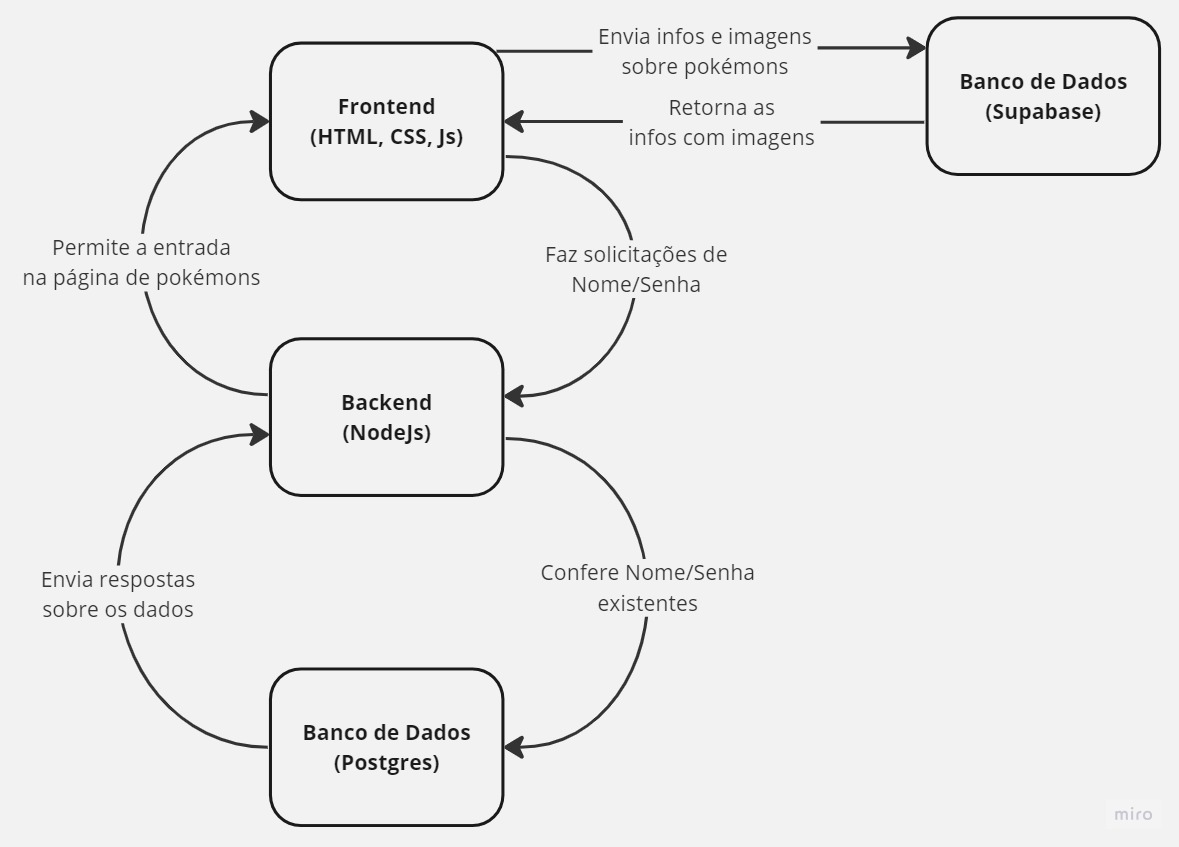
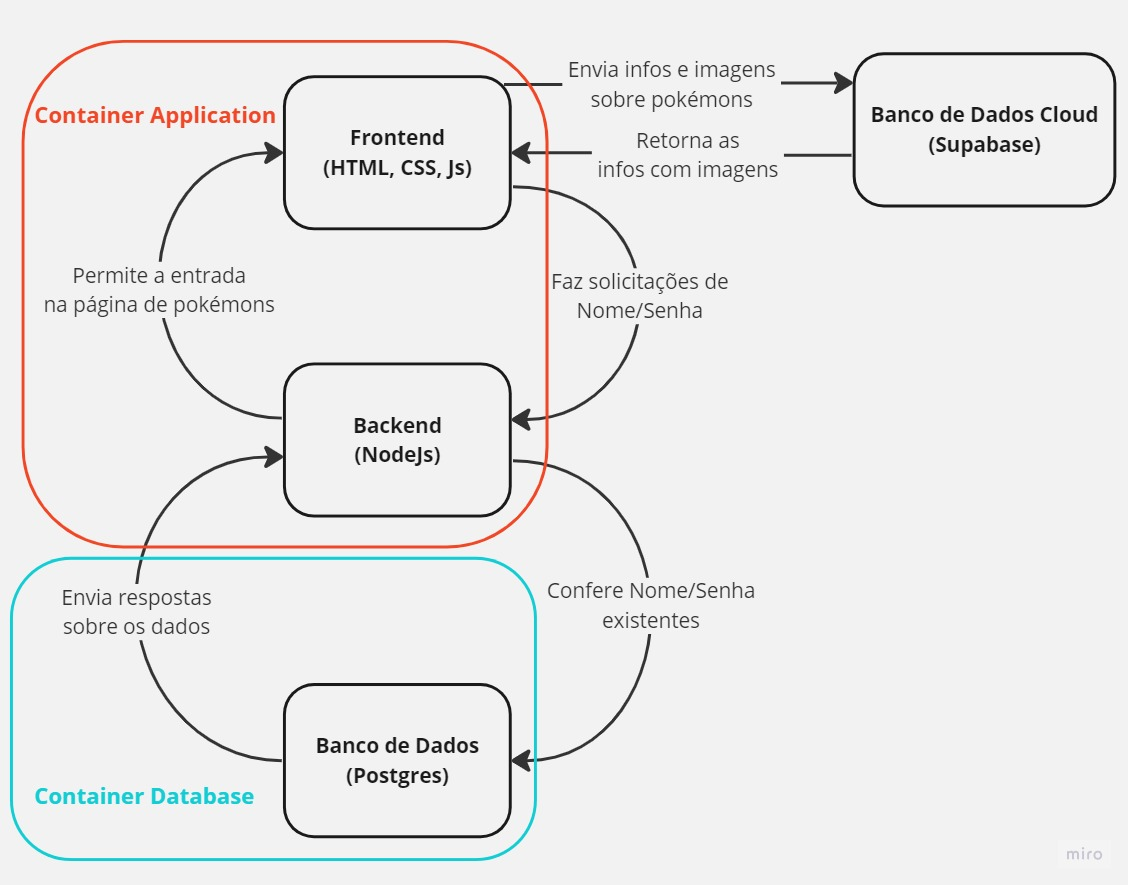
FUNCIONANDO e README

Changed region(s): [[0.0, 0.0, 0.9929, 0.9823], [0.031, 0.0614, 0.0621, 0.0921]]

diff --git a/pond2/containers/application/db.js b/pond2/containers/application/db.js
@@ -2,7 +2,7 @@ const { Pool } = require('pg');
 
 const pool = new Pool({
     user: 'postgres',
-    host: 'localhost',
+    host: 'db',
     database: 'postgres',
     password: 'postgres',
     port: 5432,

diff --git a/pond2/containers/application/index.js b/pond2/containers/application/index.js
@@ -5,7 +5,7 @@ const path = require('path');
 const db = require('./db');
 
 const app = express();
-const PORT = 8000;
+const PORT = 5000;
 const secretKey = 'MySecretKey';
 
 app.use(express.json());

diff --git a/pond2/README.md b/pond2/README.md
@@ -4,20 +4,46 @@ O projeto pokelist é uma solução containerizada web que possibilita os usuár
 
 # Como o Pokelist foi feito?
 
-Pokelist é uma aplicação de multiplos containers. A arquitetura da solução idealiazada, seria um container responsável por disponibilizar o banco de dados, enquanto outro ficaria com a aplicação em si. Ela foi idealizada dessa maneira, pois como o javascript é uma linguagem de programação voltada a web, suas funções costumam necessitar de tal para terem êxito em seu funcionamento, e para serem disponibilizadas nesse ambiente, precisam ser enviados por um servidor, sendo este o backend, tirando todo o sentido de separar as duas composições do sistema (backend e frontend).
+Pokelist é uma aplicação de multiplos containers.
 
 ## Estrutura das Pastas
 
 ```
 └───containers
     ├───application
+    |   ├───node_modules
     |   └───frontend
     |       ├───pages
     |       └───scripts
-    └───postgres
+    └───db
 ```
+
+Para o funcionamento do pokelist foi idealizado uma estrutura de 7 pastas:
+- containers: considerada a pasta raíz do projeto, ela armazena todo o conteudo para aplicação da solução containerizada.
+- application: armazena a aplicação web. Itens como o frontend, servidor, lista de dependências e a pasta node_modules para seu armazenamento, arquivo para manipulçao do banco dos dados e o Dockerfile para configuração da imagem respectiva estão inseridos nessa pasta.
+- frontend: pasta armazenada no application. Ela é responsável por toda a interface da aplicação. Nela está contida o arquivo style.css para customização do layot das páginas, e as pastas pages e scripts, que guardam a estrutura delas em html e suas funcionalidades em javascript respectivamente.
+- db: esão armazenados o arquivo de inicialização da tabela com os valores de teste do usuário, e seu arquivo Dockerfile respectivo para criação da imagem.
 
 # Arquitetura da Solução
 ![Pokelist](https://github.com/IgorSFG/Modulo7/blob/main/pond2/Pokelist.jpg)
 
+A arquitetura da solução consiste em 2 containers, um para disponibilizar o banco de dados, enquanto outro ficaria com a aplicação em si. Ela foi idealizada dessa maneira, pois como o javascript é uma linguagem de programação voltada a web, suas funções costumam necessitar de tal para terem êxito em seu funcionamento, e para serem disponibilizadas nesse ambiente, precisam ser enviados por um servidor, sendo este o backend, tirando todo o sentido de separar as duas composições do sistema (backend e frontend).
+
+A arquitetura consiste em 4 blocos principais:
+- Backend: responsável por ativar o servidor e definir as rotas e suas respectivas funções, como envio de arquivos e rquisições ao banco de dados do postgres.
+- Banco de dados do postgres: responsável por armazenar a tabela de usuarios logados no sistema e seus respectivos dados, como nome e senha. 
+- Frontend: responsável pela estruta das páginas e suas funcionalidades, como inserção de texto e imagens, ele realiza requisições para o backend e se conecta com o supabase para o envio e recebimento de dados.
+- Banco de dados do Supabase: responsável por disponibilizar o bucket para armazenamento de arquivos de imagem.
+
 # Pokelist em Ação!
+A imagem pode ser encontrada [no meu repositório](https://hub.docker.com/repository/docker/igorsfg/pokeapp/tags), basta apenas baixar a imagem com:
+```
+docker pull igorsfg/pokeapp:1.0
+```
+
+Para sua execução containerizada, basta usar o comando:
+```
+docker compose up
+```
+
+Após a execução, o Pokelist irá aparecer [AQUI :D](http:127.0.0.1:8000)
